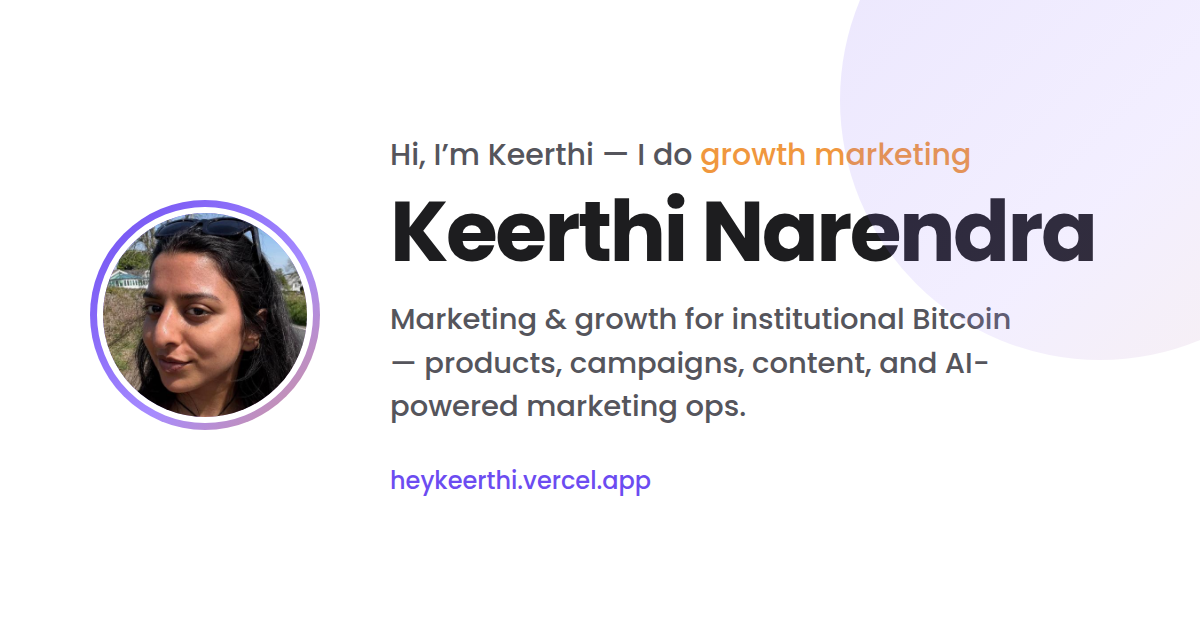
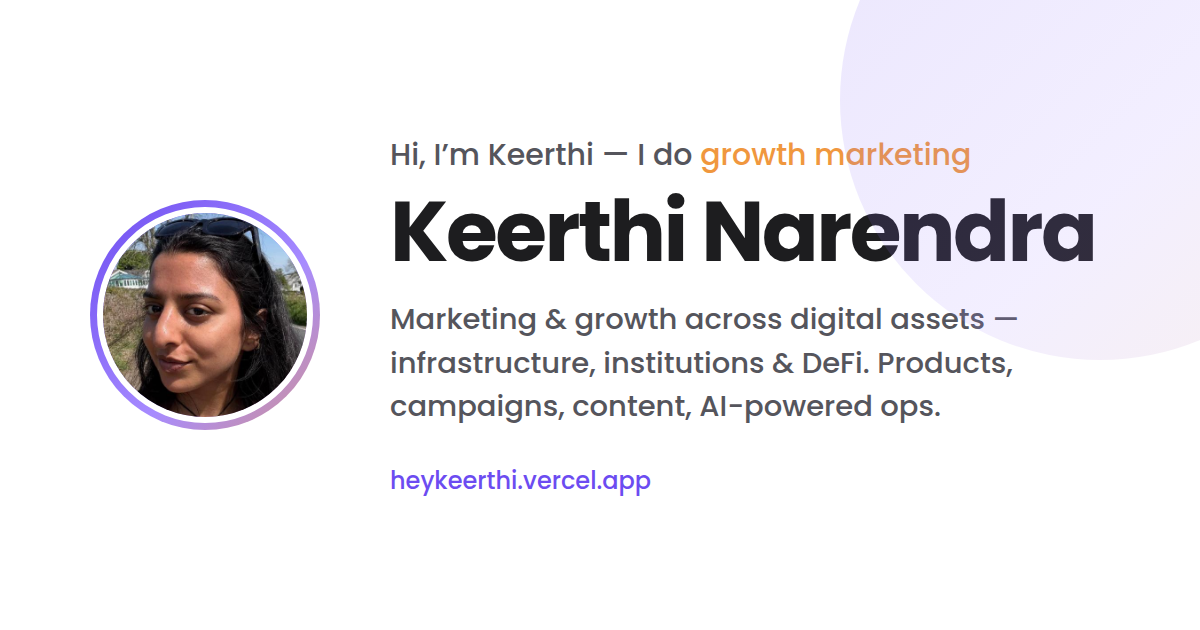
Broaden hero and meta copy: infrastructure, institutions, and DeFi (#7)
Claude-Session: https://claude.ai/code/session_01FUGCaN8XodArYa5RU4Lo3w

Changed region(s): [[0.3083, 0.4825, 0.8633, 0.6032], [0.3083, 0.6333, 0.8017, 0.6635]]

diff --git a/index.html b/index.html
@@ -1,10 +1,10 @@
 <meta charset="utf-8">
 <meta name="viewport" content="width=device-width, initial-scale=1">
 <title>Keerthi Narendra — Marketing &amp; Growth</title>
-<meta name="description" content="Marketing &amp; growth for institutional Bitcoin — products launched, growth campaigns, content, and AI-powered marketing operations.">
+<meta name="description" content="Marketing &amp; growth across digital assets — infrastructure, institutions, and DeFi. Products launched, growth campaigns, content, and AI-powered marketing operations.">
 <meta property="og:type" content="website">
 <meta property="og:title" content="Keerthi Narendra — Marketing &amp; Growth">
-<meta property="og:description" content="Marketing &amp; growth for institutional Bitcoin — products launched, growth campaigns, content, and AI-powered marketing operations.">
+<meta property="og:description" content="Marketing &amp; growth across digital assets — infrastructure, institutions, and DeFi. Products launched, growth campaigns, content, and AI-powered marketing operations.">
 <meta property="og:url" content="https://heykeerthi.vercel.app/">
 <meta property="og:image" content="https://heykeerthi.vercel.app/og.png">
 <meta property="og:image:width" content="1200">
@@ -428,7 +428,7 @@
       <div>
         <div class="hero-hi">Hi, I&rsquo;m Keerthi — I do <span class="type" id="typeTarget">growth marketing</span><span class="caret" aria-hidden="true"></span></div>
         <h1>Keerthi Narendra</h1>
-        <p class="sub">Seven years in marketing for institutional Bitcoin &amp; DeFi. Most recently at Lombard Finance, where I owned the marketing engine while $LBTC became the fastest yield-bearing token to reach $1B TVL — and built the team&rsquo;s AI-powered marketing operations from scratch.</p>
+        <p class="sub">Seven years in marketing across digital assets — infrastructure companies, institutional custodians, and DeFi protocols. Most recently at Lombard Finance, where I owned the marketing engine while $LBTC became the fastest yield-bearing token to reach $1B TVL — and built the team&rsquo;s AI-powered marketing operations from scratch.</p>
         <div class="cta-row">
           <a class="pill dark" href="#resume">View Résumé</a>
           <a class="pill" href="#contact">Contact</a>
